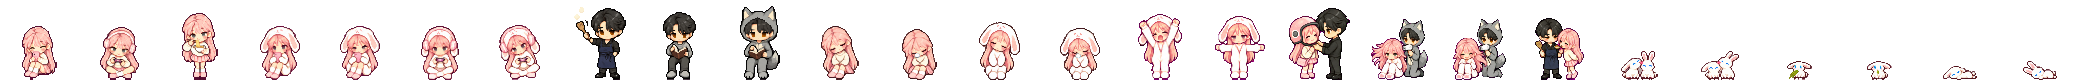
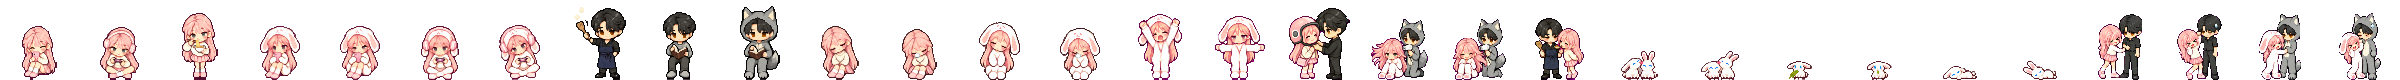
App 0.14.1：小棠偷襲湛湛有動畫了
打鬧（fight）原本只是兩個人站著冒 💢，現在換成合照：小棠戳湛湛的腰、被他抓住手腕，她笑著往後仰。白天、睡衣各兩格。小棠回報：偷襲沒有小動畫。

Claude-Session: https://claude.ai/code/session_01QnomjsAVHW2wdTHqYaYeWR

diff --git a/room.js b/room.js
@@ -30,7 +30,7 @@ const PEN = [[150, 690], [260, 700], [330, 660], [200, 650], [300, 730], [120, 7
 
 // ---------- 像素版（room-px/）----------
 // 房間圖 384×256，一格＝原圖 4 單位；邏輯座標照舊用 1536×1024。
-const PXV = '8';
+const PXV = '9';
 const PXI = (n) => `room-px/${n}.png?v=${PXV}`;
 // 像素房間的家具位置跟原圖差一點，這些點另外對過
 const SPOTS_PX = {
@@ -52,7 +52,7 @@ const SHEET = {
 };
 // 每個互動用哪隻兔兔
 // 2026/11/21 更多動畫：各動作的第二格、睡衣版、打瞌睡、伸懶腰、合照、兔兔理毛／吃草／睡覺
-SHEET.more = { w: 80, h: 80, W: 2080, H: 80, poses: {"tang-phone2":0,"tang-game2":1,"tang-eat2":2,"tang-phone-pj":3,"tang-phone2-pj":4,"tang-game-pj":5,"tang-game2-pj":6,"zhan-apron2":7,"zhan-sit-read2":8,"zhan-sit-read2-pj":9,"tang-doze":10,"tang-doze2":11,"tang-doze-pj":12,"tang-doze2-pj":13,"tang-stretch":14,"tang-stretch2":15,"pair-helmet":16,"pair-hairdry":17,"pair-hairdry2":18,"pair-taste":19,"bun-groom":20,"bun-groom2":21,"cheng-eat1":22,"cheng-eat2":23,"cheng-sleep":24,"peng-sleep":25} };
+SHEET.more = { w: 80, h: 80, W: 2400, H: 80, poses: {"pair-fight":26,"pair-fight2":27,"pair-fight-pj":28,"pair-fight2-pj":29,"tang-phone2":0,"tang-game2":1,"tang-eat2":2,"tang-phone-pj":3,"tang-phone2-pj":4,"tang-game-pj":5,"tang-game2-pj":6,"zhan-apron2":7,"zhan-sit-read2":8,"zhan-sit-read2-pj":9,"tang-doze":10,"tang-doze2":11,"tang-doze-pj":12,"tang-doze2-pj":13,"tang-stretch":14,"tang-stretch2":15,"pair-helmet":16,"pair-hairdry":17,"pair-hairdry2":18,"pair-taste":19,"bun-groom":20,"bun-groom2":21,"cheng-eat1":22,"cheng-eat2":23,"cheng-sleep":24,"peng-sleep":25} };
 // 站著／坐著不動時的小循環：[白天, 晚上]，每格約 0.7 秒
 const LOOPS = {
   'tang-phone': [['tang-phone', 'tang-phone', 'tang-phone2'], ['tang-phone-pj', 'tang-phone-pj', 'tang-phone2-pj']],
@@ -62,7 +62,8 @@ const LOOPS = {
   'tang-stretch': [['tang-stretch', 'tang-stretch2'], ['tang-stretch', 'tang-stretch2']],
   'zhan-apron': [['zhan-apron', 'zhan-apron2'], ['zhan-apron', 'zhan-apron2']],
 };
-const PAIR_MORE = { hairdry: ['pair-hairdry', 'pair-hairdry2'], taste: ['pair-taste'], helmet: ['pair-helmet'] };
+// 白天、晚上用不同圖的，寫成 { d: [...], n: [...] }
+const PAIR_MORE = { hairdry: ['pair-hairdry', 'pair-hairdry2'], taste: ['pair-taste'], helmet: ['pair-helmet'], fight: { d: ['pair-fight', 'pair-fight2'], n: ['pair-fight-pj', 'pair-fight2-pj'] } };
 const PLAY_BUNNY = { 'tang-pet': 'cheng', 'tang-feed': 'peng', 'tang-hold': 'cheng', 'zhan-tend': 'peng', 'zhan-hold': 'peng', 'tang-sit-pet': 'cheng', 'zhan-sit-pet': 'peng' };
 // 沙發前緣（原圖座標）：站在這條線前面的人和兔兔，要畫在沙發前面
 const SOFA_FRONT = [[612, 528], [712, 560], [884, 470]];
@@ -539,7 +540,7 @@ export function createRoom(root, api, mode = '25d') {
   }
   // 兩個人都到定點時，換成合照圖（白天才用，晚上穿睡衣就用動畫）
   function pairShowing() {
-    return pairKind && (PX ? ['hug', 'pat', 'poke', 'tarot', 'hairdry', 'taste', 'helmet'].includes(pairKind) && !(isNight() && pairKind === 'tarot') : ['hug', 'pat', 'poke'].includes(pairKind) && !isNight()) && zhan.act?.key === 'pair' && tang.act?.key === 'pair' && arrived(zhan) && arrived(tang) && !zhan.out && !tang.out;
+    return pairKind && (PX ? ['hug', 'pat', 'poke', 'tarot', 'hairdry', 'taste', 'helmet', 'fight'].includes(pairKind) && !(isNight() && pairKind === 'tarot') : ['hug', 'pat', 'poke'].includes(pairKind) && !isNight()) && zhan.act?.key === 'pair' && tang.act?.key === 'pair' && arrived(zhan) && arrived(tang) && !zhan.out && !tang.out;
   }
   function popFx(x, y, ch) {
     const el = document.createElement('div');
@@ -727,12 +728,12 @@ export function createRoom(root, api, mode = '25d') {
         if (a === tang) { a.el.style.visibility = 'hidden'; return; }
         a.el.style.visibility = '';
         x = (zhan.x + tang.x) / 2; y = Math.max(zhan.y, tang.y); z = Math.round(y);
-        if (PAIR_MORE[pairKind]) { const fr = PAIR_MORE[pairKind]; h = pxFrame(a, 'more', SHEET.more.poses[fr[Math.floor(now / 0.45) % fr.length]], 0, false); }
+        if (PAIR_MORE[pairKind]) { const pm = PAIR_MORE[pairKind]; const fr = Array.isArray(pm) ? pm : pm[isNight() ? 'n' : 'd']; h = pxFrame(a, 'more', SHEET.more.poses[fr[Math.floor(now / (pairKind === 'fight' ? 0.6 : 0.45)) % fr.length]], 0, false); }
         else h = pxFrame(a, 'pair', SHEET.pair.poses[pairKind], isNight() && pairKind !== 'tarot' ? 1 : 0, false);
         a.el.style.transform = `translate(${x * scale}px, ${y * scale}px)`;
         a.el.style.zIndex = String(z);
         a.bub.textContent = '';
-        if (now - lastHeart > 1.1) { lastHeart = now; popFx(x, y - 250, pairKind === 'tarot' ? pick(['🔮', '✨', '🃏']) : pairKind === 'hairdry' ? pick(['💨', '✨', '💗']) : pairKind === 'taste' ? pick(['😋', '♥', '✨']) : pairKind === 'helmet' ? pick(['🛵', '💗', '路上小心']) : pairKind === 'poke' ? pick(['!', '👉', '…']) : pick(['💗', '💕', '♥'])); }
+        if (now - lastHeart > 1.1) { lastHeart = now; popFx(x, y - 250, pairKind === 'tarot' ? pick(['🔮', '✨', '🃏']) : pairKind === 'hairdry' ? pick(['💨', '✨', '💗']) : pairKind === 'taste' ? pick(['😋', '♥', '✨']) : pairKind === 'helmet' ? pick(['🛵', '💗', '路上小心']) : pairKind === 'fight' ? pick(['💢', '!?', '抓到了', '哈哈']) : pairKind === 'poke' ? pick(['!', '👉', '…']) : pick(['💗', '💕', '♥'])); }
         return;
       }
       a.el.style.visibility = '';

diff --git a/app.js b/app.js
@@ -1,6 +1,6 @@
 
-const VERSION = '0.14.0';
-import { createRoom } from './room.js?v=0.14.0';
+const VERSION = '0.14.1';
+import { createRoom } from './room.js?v=0.14.1';
 // 小湛的圖（GPT 畫的，放在 pet/）
 const PET_IMG = {
   shirt: ['normal', 'happy', 'hungry', 'sad'],

diff --git a/CLAUDE.md b/CLAUDE.md
@@ -18,7 +18,7 @@
 
 ## 版本與更新
 
-- 改了 App 要同時改 `app.js` 的 `const VERSION` 和 `version.json`（目前 0.14.0）。App 打開或切回來時會比對 `version.json`，不同就自己重新載入，不用重裝。
+- 改了 App 要同時改 `app.js` 的 `const VERSION` 和 `version.json`（目前 0.14.1）。App 打開或切回來時會比對 `version.json`，不同就自己重新載入，不用重裝。
 - 主題腳本改了要把 header 的 `@version` 往上加（目前 0.8.2）。
   - 小棠空間每小時檢查一次 `raw.githubusercontent.com/.../skin/xiaotang-claude.user.js`，版本不同就換新並重新整理 Claude 分頁。
   - raw.githubusercontent.com 有大約 5 分鐘快取，剛推完可能還拿到舊的。
